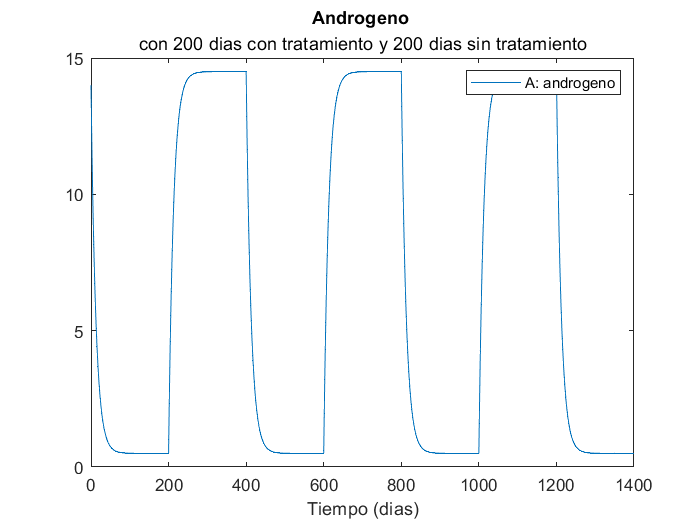
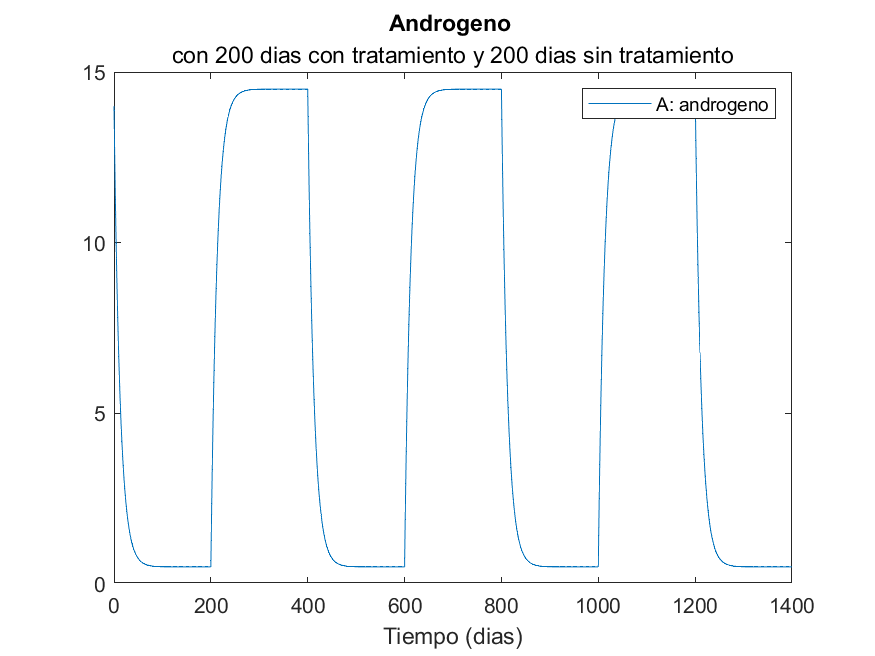
all_plot con dos graficas de error y mas imagenes

diff --git a/All_plot.m b/All_plot.m
@@ -22,12 +22,14 @@ function [] = All_plot(dias_con, dias_sin, t_fin)
     %Q1(0) Q2(0) X1(0) X2(0) P(0)
     Var0 = [0.4 0.4 alpha*beta*P0 (1-alpha)*beta*P0 P0]; 
 
-    %% Ecuaciones diferenciale, division y calculo.
+    %% Ecuaciones diferenciale, division, calculo y error.
     S = @(t,y) dAlldt(t,y,dias_con, dias_sin);
     h=1e-2;
 
     [T, Y] = ode45(S, t_ini:h:t_fin, Var0);
     [~, y] = mi_euler(S, t_ini, t_fin, Var0, h);
+
+    abs_error = abs(Y-y');
 
     %% Graficas usando ode45.
     % Q1 y Q2.
@@ -65,16 +67,26 @@ function [] = All_plot(dias_con, dias_sin, t_fin)
     xlabel('Tiempo (dias)')
     saveas(4,['imgs/' num2str(dias_con) '_' num2str(dias_sin) '_' num2str(t_fin) '_Xs_PSA_Euler.png'])
 
-    %% Grafica con el error entre ambos metodos
+    %% Graficas con el error entre ambos metodos
+    % Q1 y Q2
     figure(5)
-    semilogy(T,abs(Y-y')) % error absoluto entre ambos metodos
-    legend('Error Q_1', 'Error Q_2', 'Error X_1', 'Error X_2', 'Error PSA')
+    semilogy(T,abs_error(:,1:2))
+    legend({'Error Q_1', 'Error Q_2'}, 'Location','best');
+    legend('Error Q_1', 'Error Q_2')
     title('Semilogy Error entre ode45 y funcion de Euler propia', ['con ' num2str(dias_con) ' dias con tratamiento y ' num2str(dias_sin) ' dias sin tratamiento'])
     xlabel('Tiempo (dias)')
-    saveas(5,['imgs/' num2str(dias_con) '_' num2str(dias_sin) '_' num2str(t_fin) '_error.png'])
+    saveas(5,['imgs/' num2str(dias_con) '_' num2str(dias_sin) '_' num2str(t_fin) '_Qs_error.png'])
+
+    % X1, X2 y PSA
+    figure(6)
+    semilogy(T,abs_error(:,3:5))
+    legend({'Error X_1', 'Error X_2', 'Error PSA'}, 'Location','best')
+    title('Semilogy Error entre ode45 y funcion de Euler propia', ['con ' num2str(dias_con) ' dias con tratamiento y ' num2str(dias_sin) ' dias sin tratamiento'])
+    xlabel('Tiempo (dias)')
+    saveas(6,['imgs/' num2str(dias_con) '_' num2str(dias_sin) '_' num2str(t_fin) '_Xs_PSA_error.png'])
 
     %% Grafica del androgeno
-    figure(6)
+    figure(7)
     for i = 1:length(T)
         and(i) = A(T(i), dias_con, dias_sin);
     end
@@ -82,5 +94,5 @@ function [] = All_plot(dias_con, dias_sin, t_fin)
     legend('A: androgeno');
     title('Androgeno ', ['con ' num2str(dias_con) ' dias con tratamiento y ' num2str(dias_sin) ' dias sin tratamiento'])
     xlabel('Tiempo (dias)')
-    saveas(6,['imgs/' num2str(dias_con) '_' num2str(dias_sin) '_' num2str(t_fin) '_androgeno.png'])
+    saveas(7,['imgs/' num2str(dias_con) '_' num2str(dias_sin) '_' num2str(t_fin) '_androgeno.png'])
 end
